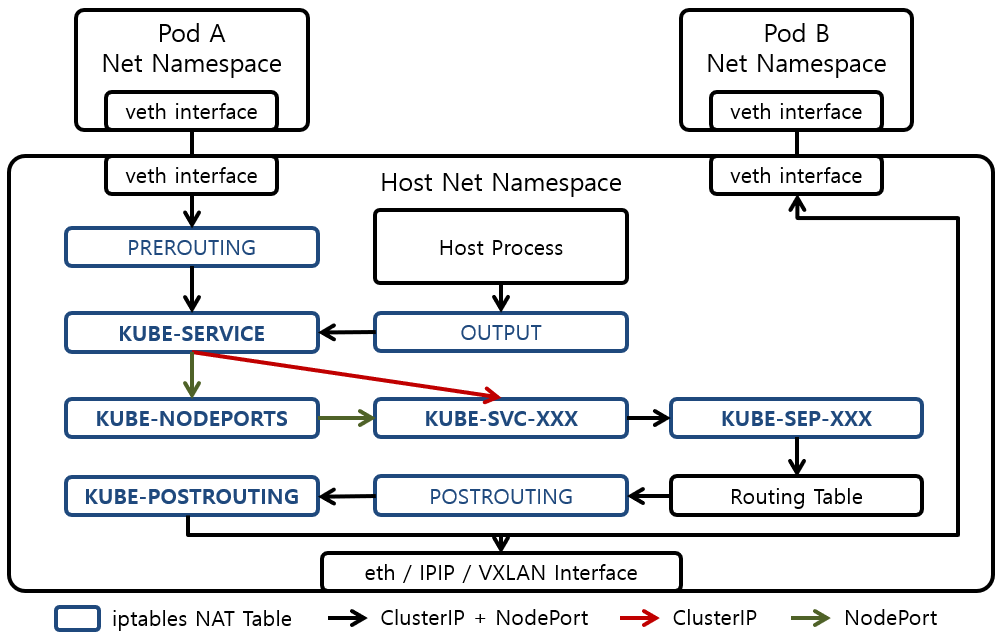
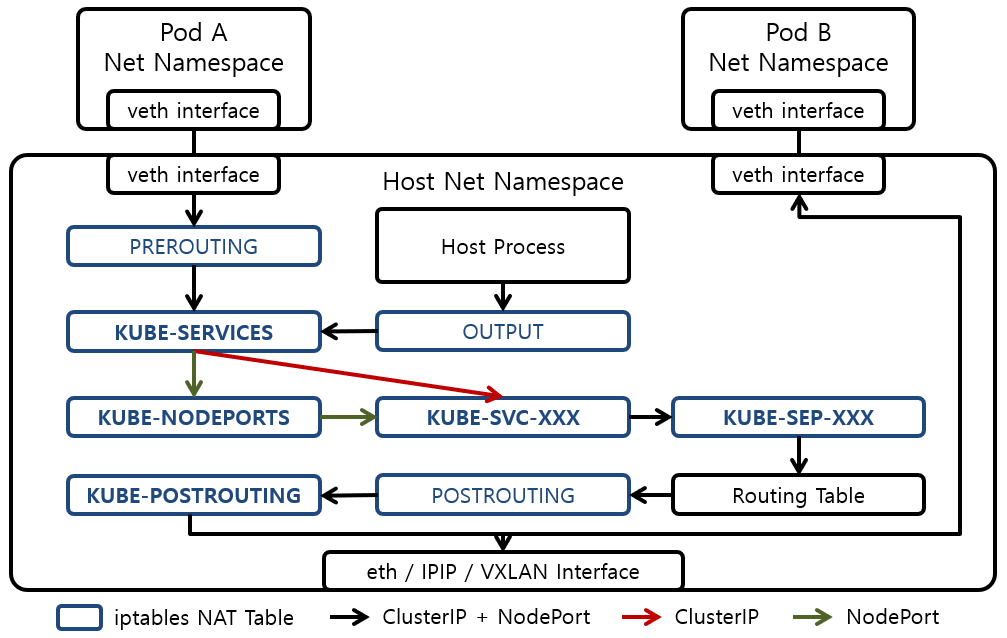
Update Kubernetes Service

diff --git a/_docs/theory_analysis/Kubernetes_Service_Proxy.md b/_docs/theory_analysis/Kubernetes_Service_Proxy.md
@@ -23,7 +23,7 @@ Chain KUBE-SERVICES (2 references)
     0     0 KUBE-NODEPORTS  all  --  *      *       0.0.0.0/0            0.0.0.0/0            /* kubernetes service nodeports; NOTE: this must be the last rule in this chain */ ADDRTYPE match dst-type LOCAL
 {% endhighlight %}
 <figure>
-<figcaption class="caption">[NAT Table 1] iptables Mode의 KUBE-SERVICE </figcaption>
+<figcaption class="caption">[NAT Table 1] iptables Mode의 KUBE-SERVICES </figcaption>
 </figure>
 
 {% highlight text %}
@@ -76,15 +76,15 @@ Chain KUBE-POSTROUTING (1 references)
 <figcaption class="caption">[NAT Table 6] iptables Mode의 KUBE-POSTROUTING </figcaption>
 </figure>
 
-iptables Proxy Mode는 Kubernetes가 이용하는 Default Proxy Mode이다. [그림 1]은 iptables Mode에서 Service로 전송되는 Packet의 경로를 나타내고 있다. [NAT Table 1] ~ [NAT Table 6]는 [그림 1]의 각 NAT Table의 실제 내용을 보여주고 있다. [그림 1]의 NAT Table들은 Kubernetes Cluster를 구성하는 모든 Node에 동일하게 설정된다. 따라서 Kubernetes Cluster를 구성하는 어느 Node에서도 Service로 Packet을 전송할 수 있다.
+Service Proxy의 iptables Mode는 iptables를 이용하여 Service Proxy를 수행하는 Mode이다. 현재 Kubernetes가 이용하는 Default Proxy Mode이다. [그림 1]은 iptables Mode에서 Service로 전송되는 Packet의 경로를 나타내고 있다. [NAT Table 1] ~ [NAT Table 6]는 [그림 1]의 주요 NAT Table의 실제 내용을 보여주고 있다. [그림 1]의 NAT Table들은 Kubernetes Cluster를 구성하는 모든 Node에 동일하게 설정된다. 따라서 Kubernetes Cluster를 구성하는 어느 Node에서도 Service로 Packet을 전송할 수 있다.
 
-대부분의 Pod에서 전송된 Packet은 Pod의 veth를 통해서 Host의 Network Namespace로 전달되기 때문에 Packet은 PREROUTING Table에 의해서 KUBE-SERVICE Table로 전달된다. Host의 Network Namespace를 이용하는 Pod 또는 Host Process에서 전송한 Packet은 OUTPUT Table에 의해서 KUBE-SERVICE Table로 전달된다. KUBE-SERVICE Table에서 Packet의 Dest IP와 Dest Port가 ClusterIP Service의 IP와 Port와 일치한다면, 해당 Packet은 일치하는 ClusterIP Service의 NAT Table인 KUBE-SVC-XXX Table로 전달된다. Packet의 Dest IP가 Localhost인 경우에는 해당 Packet은 KUBE-NODEPORTS Table로 전달된다.
+대부분의 Pod에서 전송된 Packet은 Pod의 veth를 통해서 Host의 Network Namespace로 전달되기 때문에 Packet은 PREROUTING Table에 의해서 KUBE-SERVICES Table로 전달된다. Host의 Network Namespace를 이용하는 Pod 또는 Host Process에서 전송한 Packet은 OUTPUT Table에 의해서 KUBE-SERVICES Table로 전달된다. KUBE-SERVICES Table에서 Packet의 Dest IP와 Dest Port가 ClusterIP Service의 IP와 Port와 일치한다면, 해당 Packet은 일치하는 ClusterIP Service의 NAT Table인 KUBE-SVC-XXX Table로 전달된다. Packet의 Dest IP가 Localhost인 경우에는 해당 Packet은 KUBE-NODEPORTS Table로 전달된다.
 
-KUBE-NODEPORTS Table에서 Packet의 Dest Port가 NodePort Service의 Port와 일치하는 경우 해당 Packet은 NodePort Service의 NAT Table인 KUBE-SVC-XXX Table로 전달된다. KUBE-SVC-XXX Table에서는 iptables의 statistic 기능을 이용하여 Packet은 Service를 구성하는 Pod들로 랜덤하고 균등하게 Load Balancing하는 역활을 수행한다. [NAT Table 3]에서 Service는 3개의 Pod으로 구성되어 있기 때문에 3개의 KUBE-SEP-XXX Table로 Packet이 랜덤하고 균등하게 Load Balancing 되도록 설정되어 있는것을 확인할 수 있다. KUBE-SEP-XXX Table에서 Packet은 Container IP 및 Service에서 설정한 Port로 DNAT를 수행한다. Container IP로 **DNAT**를 수행한 Packet은 CNI Plugin을 통해 구축된 Container Netwokr를 통해서 해당 Container에게 전달된다.
+KUBE-NODEPORTS Table에서 Packet의 Dest Port가 NodePort Service의 Port와 일치하는 경우 해당 Packet은 NodePort Service의 NAT Table인 KUBE-SVC-XXX Table로 전달된다. KUBE-SVC-XXX Table에서는 iptables의 statistic 기능을 이용하여 Packet은 Service를 구성하는 Pod들로 랜덤하고 균등하게 Load Balancing하는 역활을 수행한다. [NAT Table 3]에서 Service는 3개의 Pod으로 구성되어 있기 때문에 3개의 KUBE-SEP-XXX Table로 Packet이 랜덤하고 균등하게 Load Balancing 되도록 설정되어 있는것을 확인할 수 있다. KUBE-SEP-XXX Table에서 Packet은 Pod IP 및 Service에서 설정한 Port로 DNAT를 수행한다. Pod IP로 **DNAT**된 Packet은 CNI Plugin을 통해 구축된 Container Network를 통해서 해당 Pod에게 전달된다.
 
 Service로 전달되는 Packet은 iptables의 DNAT를 통해서 Pod에게 전달되기 때문에, Pod에서 전송한 응답 Packet의 Src IP는 Pod의 IP가 아닌 Service의 IP로 **SNAT**되어야 한다. iptables에는 Serivce를 위한 SNAT Rule이 명시되어 있지 않다. 하지만 iptables는 Linux Kernel의 **Conntrack** (Connection Tracking)의 TCP Connection 정보를 바탕으로 Service Pod으로부터 전달받은 Packet을 SNAT한다.
 
-#### 1.1. Hairpinning
+#### 1.1. iptables Mode Hairpinning
 
 ![[그림 2] iptables Mode에서 Hairpinning이 적용된 Packet 경로]({{site.baseurl}}/images/theory_analysis/Kubernetes_Service_Proxy/iptables_Mode_Hairpinning.PNG){: width="650px"}
 
@@ -134,15 +134,85 @@ Chain KUBE-NODEPORT-HOST (1 references)
 <figcaption class="caption">[NAT Table 10] Userspace Mode의 KUBE-NODEPORT-HOST</figcaption>
 </figure>
 
-Userspace Proxy Mode는 Kubernetes가 처음으로 제공했던 Proxy Mode이다. Userspace에서 동작하는 kube-proxy가 Service Proxy 역활을 수행한다. 현재는 iptables Mode에 비해서 떨어지는 성능 때문에 잘 이용되지 않고 있다. [그림 3]은 Userspace Mode에서 Service로 전송되는 Packet의 경로를 나타내고 있다. [NAT Table 7] ~ [NAT Table 10]은 [그림 3]의 각 NAT Table의 실제 내용을 보여주고 있다. [그림 3]의 NAT Table과 kube-proxy는 Kubernetes Cluster를 구성하는 모든 Node에 동일하게 설정된다. 따라서 Kubernetes Cluster를 구성하는 어느 Node에서도 Service로 Packet을 전송할 수 있다.
+Service Proxy의 iptables Mode는 Userspace에서 동작하는 kube-proxy가 Service Proxy 역활을 수행하는 Mode이다. Kubernetes가 처음으로 제공했던 Proxy Mode이다. 현재는 iptables Mode에 비해서 떨어지는 성능 때문에 잘 이용되지 않고 있다. [그림 3]은 Userspace Mode에서 Service로 전송되는 Packet의 경로를 나타내고 있다. [NAT Table 7] ~ [NAT Table 10]은 [그림 3]의 주요 NAT Table의 실제 내용을 보여주고 있다. [그림 3]의 NAT Table과 kube-proxy는 Kubernetes Cluster를 구성하는 모든 Node에 동일하게 설정된다. 따라서 Kubernetes Cluster를 구성하는 어느 Node에서도 Service로 Packet을 전송할 수 있다.
 
 대부분의 Pod에서 전송된 Packet은 Pod의 veth를 통해서 Host의 Network Namespace로 전달되기 때문에 Packet은 PREROUTING Table에 의해서 KUBE-PORTALS-CONTAINER Table로 전달된다. KUBE-PORTALS-CONTAINER Table에서 Packet의 Dest IP와 Dest Port가 ClusterIP Service의 IP와 Port와 일치한다면, 해당 Packet은 kube-proxy로 **Redirect**된다. Packet의 Dest IP가 Localhost인 경우에는 해당 Packet은 KUBE-NODEPORT-CONTAINER Table로 전달된다. KUBE-NODEPORT-CONTAINER Table에서 Packet의 Dest Port가 NodePort Service의 Port와 일치하는 경우 해당 Packet은 kube-proxy로 **Redirect**된다.
 
 Host의 Network Namespace를 이용하는 Pod 또는 Host Process에서 전송한 Packet은 OUTPUT Table에 의해서 KUBE-PORTALS-HOST Table로 전달된다. 이후의 KUBE-PORTALS-HOST, KUBE-NODEPORT-HOST Table에서의 Packet 처리과정은 KUBE-PORTALS-CONTAINER, KUBE-NODEPORT-CONTAINER Table에서의 Packet 처리와 유사하다. 차이점은 Packet을 Packet을 Redirect하지 않고 **DNAT**를 수행한다는 점이다.
 
-**Redirect, DNAT를 통해서 Service로 전송한 모든 Packet은 kube-proxy로 전달된다.** kube-proxy가 받는 Packet의 Dest Port 하나당 하나의 Service가 Mapping 되어있다. 따라서 kube-proxy는 Redirect, NAT된 Packet의 Dest Port를 통해서 해당 Packet이 어느 Service로 전달되어야 하는지 파악할 수 있다. kube-proxy는 전달받은 Packet을 Packet이 전송되어야하는 Service에 속한 다수의 Pod에게 균등하게 Load Balancing 하여 다시 전송한다. kube-proxy는 Host의 Network Namespace에서 동작하기 때문에 kube-proxy가 전송한 Packet 또한 Service NAT Table들을 거친다. 하지만 kube-proxy가 전송한 Packet의 Dest IP는 Pod의 IP이기 때문에 해당 Packet은 Service NAT Table에 의해서 변경되지 않고 Pod에게 직접 전달된다.
+**Redirect, DNAT를 통해서 Service로 전송한 모든 Packet은 kube-proxy로 전달된다.** kube-proxy가 받는 Packet의 Dest Port 하나당 하나의 Service가 Mapping 되어있다. 따라서 kube-proxy는 Redirect, NAT된 Packet의 Dest Port를 통해서 해당 Packet이 어느 Service로 전달되어야 하는지 파악할 수 있다. kube-proxy는 전달받은 Packet을 Packet이 전송되어야하는 Service에 속한 다수의 Pod에게 균등하게 Load Balancing 하여 다시 전송한다.
+
+kube-proxy는 Host의 Network Namespace에서 동작하기 때문에 kube-proxy가 전송한 Packet 또한 Service NAT Table들을 거친다. 하지만 kube-proxy가 전송한 Packet의 Dest IP는 Pod의 IP이기 때문에 해당 Packet은 Service NAT Table에 의해서 변경되지 않고, CNI Plugin을 통해 구축된 Container Network를 통해서 해당 Pod에게 전달된다.
 
 ### 3. IPVS Mode
+
+![[그림 4] IPVS Mode에서 Service Packet 경로]({{site.baseurl}}/images/theory_analysis/Kubernetes_Service_Proxy/IPVS_Mode_Service_Packet_Path.PNG){: width="700px"}
+
+{% highlight text %}
+Chain KUBE-SERVICES (2 references)
+ pkts bytes target     prot opt in     out     source               destination
+    0     0 KUBE-MARK-MASQ  all  --  *      *      !192.167.0.0/16       0.0.0.0/0            /* Kubernetes service cluster ip + port for masquerade purpose*/ match-set KUBE-CLUSTER-IP dst,dst
+   42  2526 KUBE-NODE-PORT  all  --  *      *       0.0.0.0/0            0.0.0.0/0            ADDRTYPE match dst-type LOCAL
+    0     0 ACCEPT     all  --  *      *       0.0.0.0/0            0.0.0.0/0            match-set KUBE-CLUSTER-IP dst,dst
+{% endhighlight %}
+<figure>
+<figcaption class="caption">[NAT Table 11] IPVS Mode의 KUBE-SERVICES </figcaption>
+</figure>
+
+{% highlight text %}
+Chain KUBE-NODE-PORT (1 references)
+ pkts bytes target     prot opt in     out     source               destination
+    6   360 KUBE-MARK-MASQ  tcp  --  *      *       0.0.0.0/0            0.0.0.0/0            /* Kubernetes nodeport TCP port for masquerade purpose */ match-set KUBE-NODE-PORT-TCP dst
+{% endhighlight %}
+<figure>
+<figcaption class="caption">[NAT Table 12] IPVS Mode의 KUBE-POSTROUTING </figcaption>
+</figure>
+
+{% highlight text %}
+Chain KUBE-POSTROUTING (1 references)
+ pkts bytes target     prot opt in     out     source               destination
+    0     0 MASQUERADE  all  --  *      *       0.0.0.0/0            0.0.0.0/0            /* kubernetes service traffic requiring SNAT */ mark match 0x4000/0x4000
+    1    60 MASQUERADE  all  --  *      *       0.0.0.0/0            0.0.0.0/0            /* Kubernetes endpoints dst ip:port, source ip for solving hairpinpurpose */ match-set KUBE-LOOP-BACK dst,dst,src
+{% endhighlight %}
+<figure>
+<figcaption class="caption">[NAT Table 13] IPVS Mode의 KUBE-POSTROUTING </figcaption>
+</figure>
+
+{% highlight text %}
+TCP  10.97.229.148:80 rr
+  -> 192.167.1.93:80              Masq    1      0          0
+  -> 192.167.2.88:80              Masq    1      0          0
+  -> 192.167.2.215:80             Masq    1      0          0 
+TCP  127.0.0.1:32238 rr
+  -> 192.167.1.93:80              Masq    1      0          0
+  -> 192.167.2.88:80              Masq    1      0          0
+  -> 192.167.2.215:80             Masq    1      0          0        
+{% endhighlight %}
+<figure>
+<figcaption class="caption">[IPVS List] IPVS Mode의 IPVS List </figcaption>
+</figure>
+
+{% highlight text %}
+TCP  10.97.229.148:80 rr
+  -> 192.167.1.93:80              Masq    1      0          0
+  -> 192.167.2.88:80              Masq    1      0          0
+  -> 192.167.2.215:80             Masq    1      0          0 
+TCP  127.0.0.1:32238 rr
+  -> 192.167.1.93:80              Masq    1      0          0
+  -> 192.167.2.88:80              Masq    1      0          0
+  -> 192.167.2.215:80             Masq    1      0          0        
+{% endhighlight %}
+<figure>
+<figcaption class="caption">[ipset] IPVS Mode의 ipset 목록 </figcaption>
+</figure>
+
+Service Proxy의 IPVS Mode는 Linue Kernel에서 제공하는 L4 Load Balacner인 IPVS가 Service Proxy 역활을 수행하는 Mode이다. iptables를 이용하여 Packet Load Balancing을 수행하는것 보다 IPVS를 이용하여 Packet Load Balancing을 수행하는 것이 더 높은 성능을 보이기 때문에, IPVS Mode는 iptables Mode보다 높은 Packet Load Balancing을 성능을 보여준다. [그림 4]는 IPVS Mode에서 Service로 전송되는 Packet의 경로를 나타내고 있다. [NAT Table 11] ~ [NAT Table 13]은 [그림 4]의 주요 NAT Table의 실제 내용을 보여주고 있다. [IPVS List]는 [그림 4]의 IPVS의 실제 내용을 보여주고 있다.
+
+대부분의 Pod에서 전송된 Packet은 Pod의 veth를 통해서 Host의 Network Namespace로 전달되기 때문에 Packet은 PREROUTING Table에 의해서 KUBE-SERVICES Table로 전달된다. Host의 Network Namespace를 이용하는 Pod 또는 Host Process에서 전송한 Packet은 OUTPUT Table에 의해서 KUBE-SERVICES Table로 전달된다.
+
+IPVS에서는 Packet의 Dest IP, Dest Port가 ClusterIP Service의 IP와 Port와 일치하거나, Packet의 Dest IP가 LocalHost이고 Packet의 Dest Port가 NodePort Service의 NodePort와 일치하는 경우 해당 Packet을 Load Balancing 및 Pod IP와 Service에서 설정한 Port로 DNAT를 수행한다. Pod IP로 **DNAT**된 Packet은 CNI Plugin을 통해 구축된 Container Network를 통해서 해당 Pod에게 전달된다. [IPVS List]에서 10.97.229.148:80은 ClusterIP Service의 IP, Port이고 127.0.0.1:32238의 32238은 NodePort Service NodePort이다.
+
+#### 1.2. IPVS Mode Hairpinning
 
 ### 4. 참조
 
